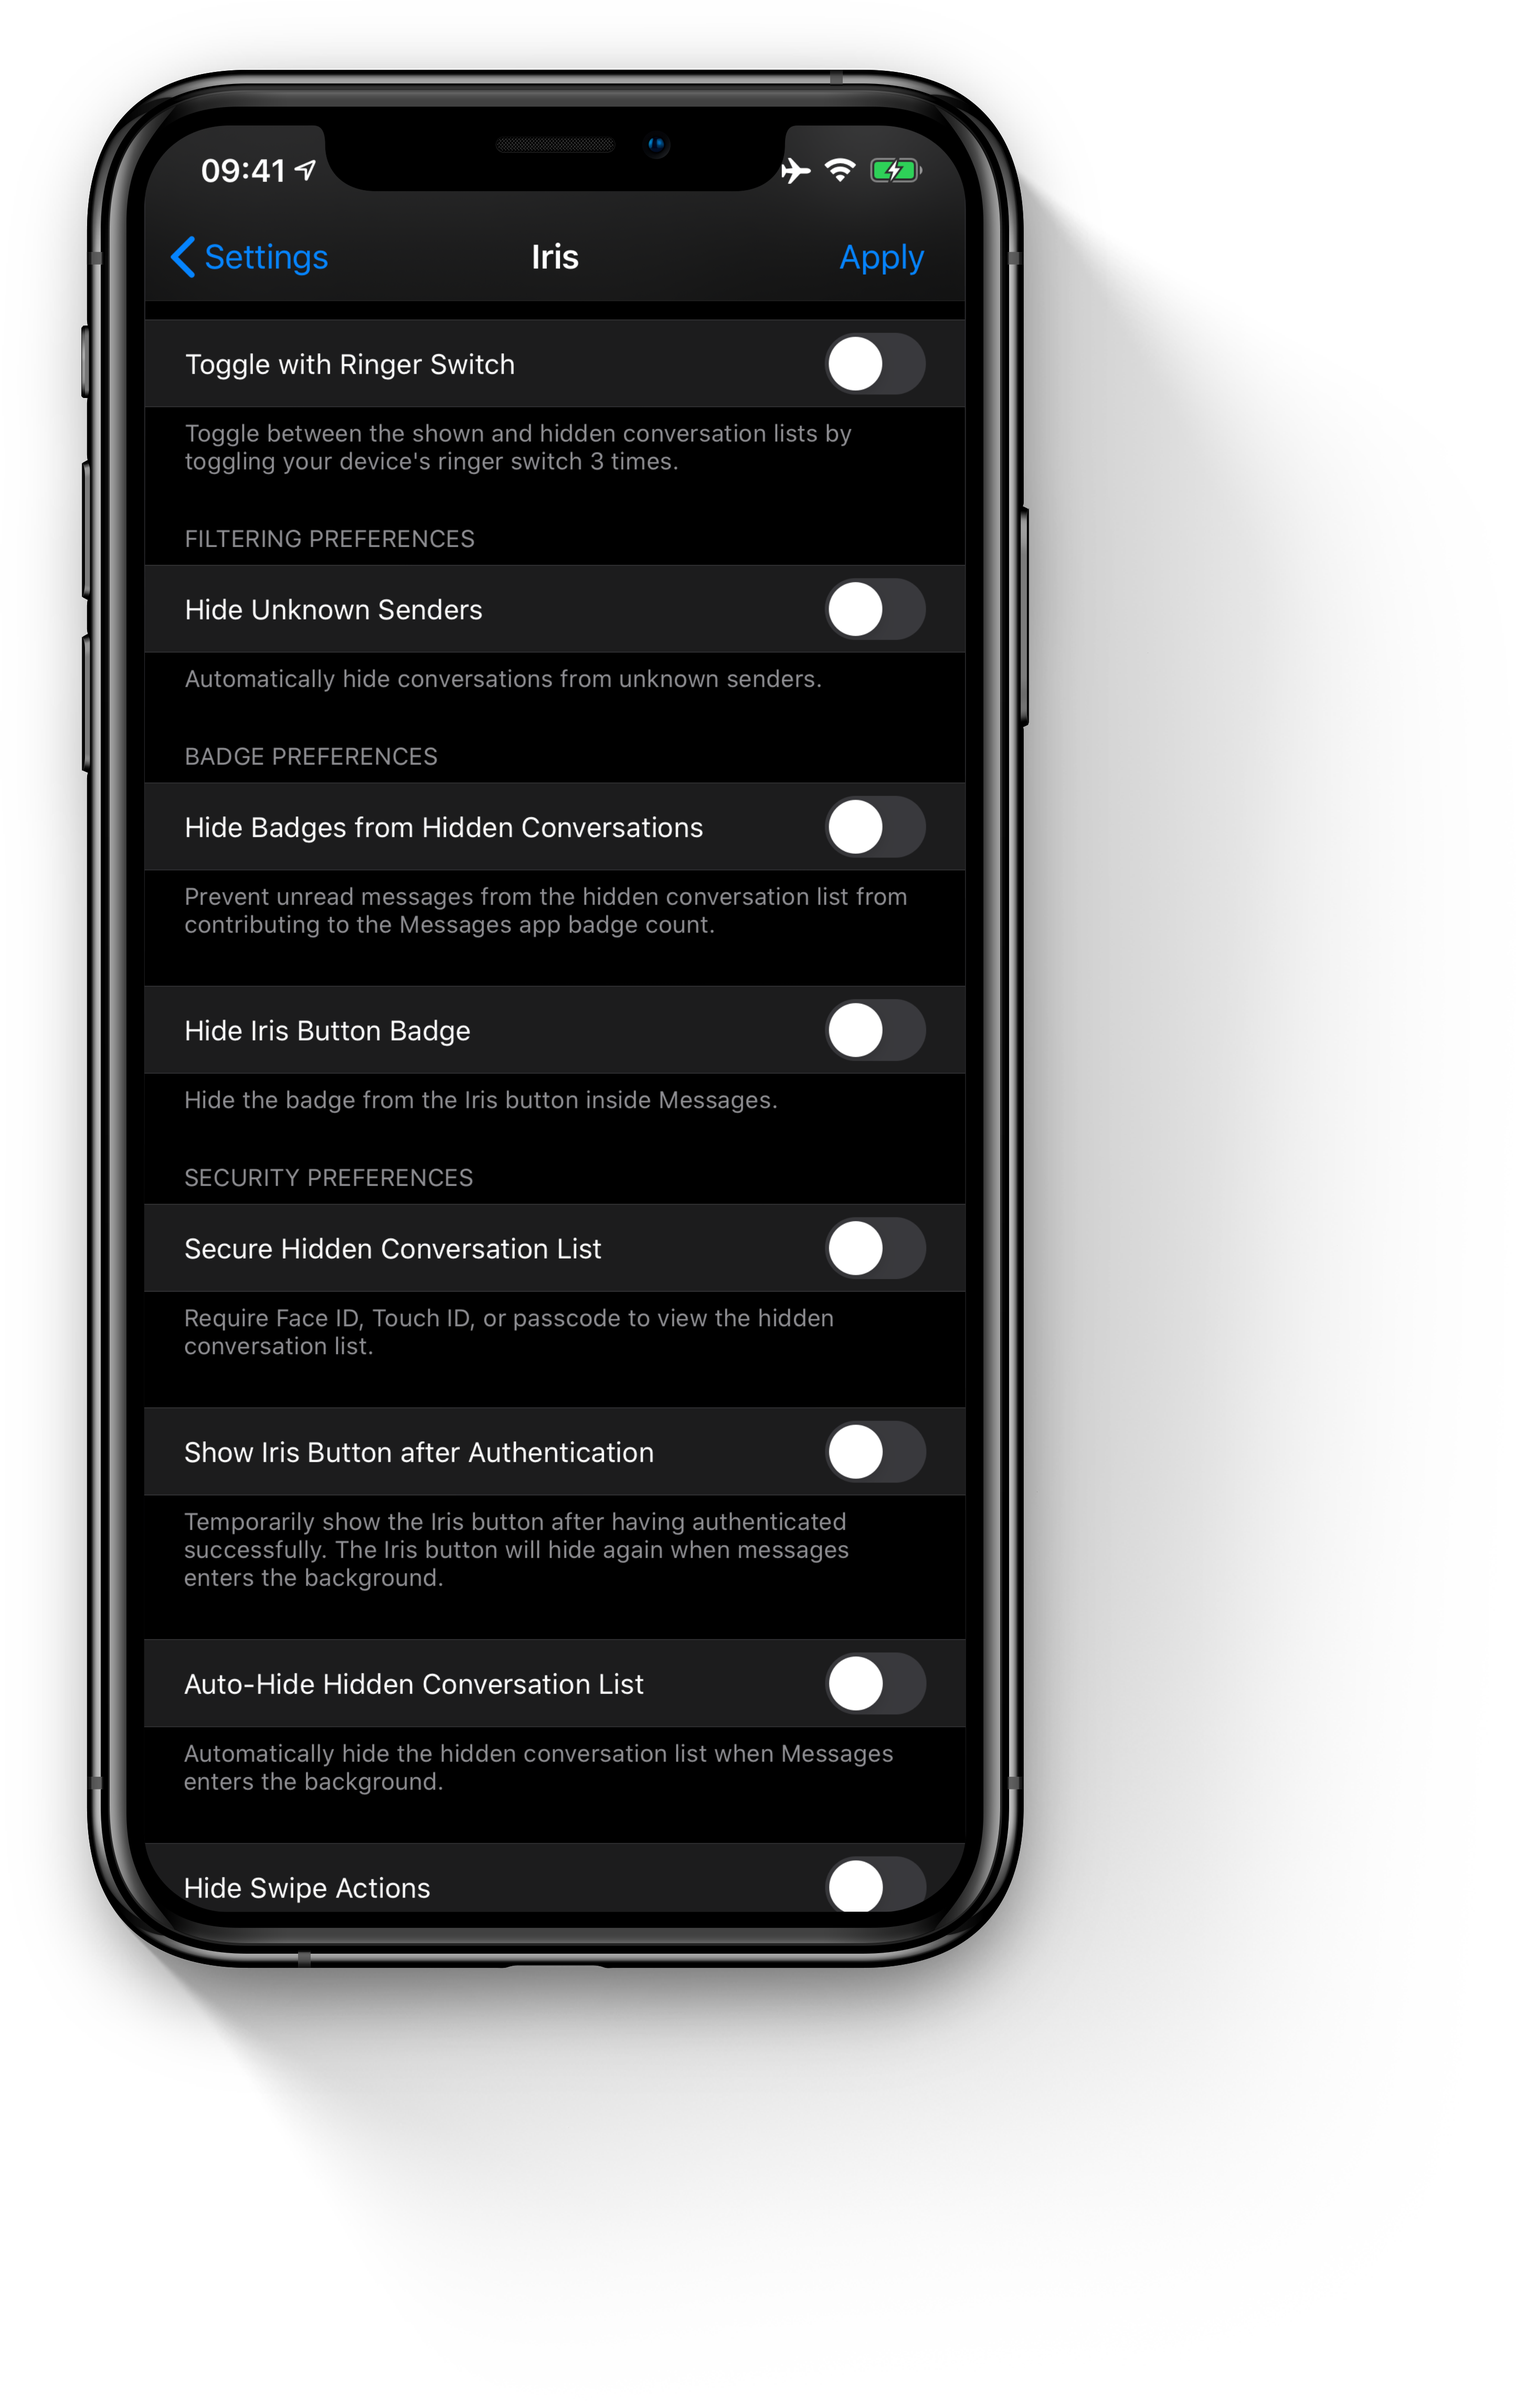
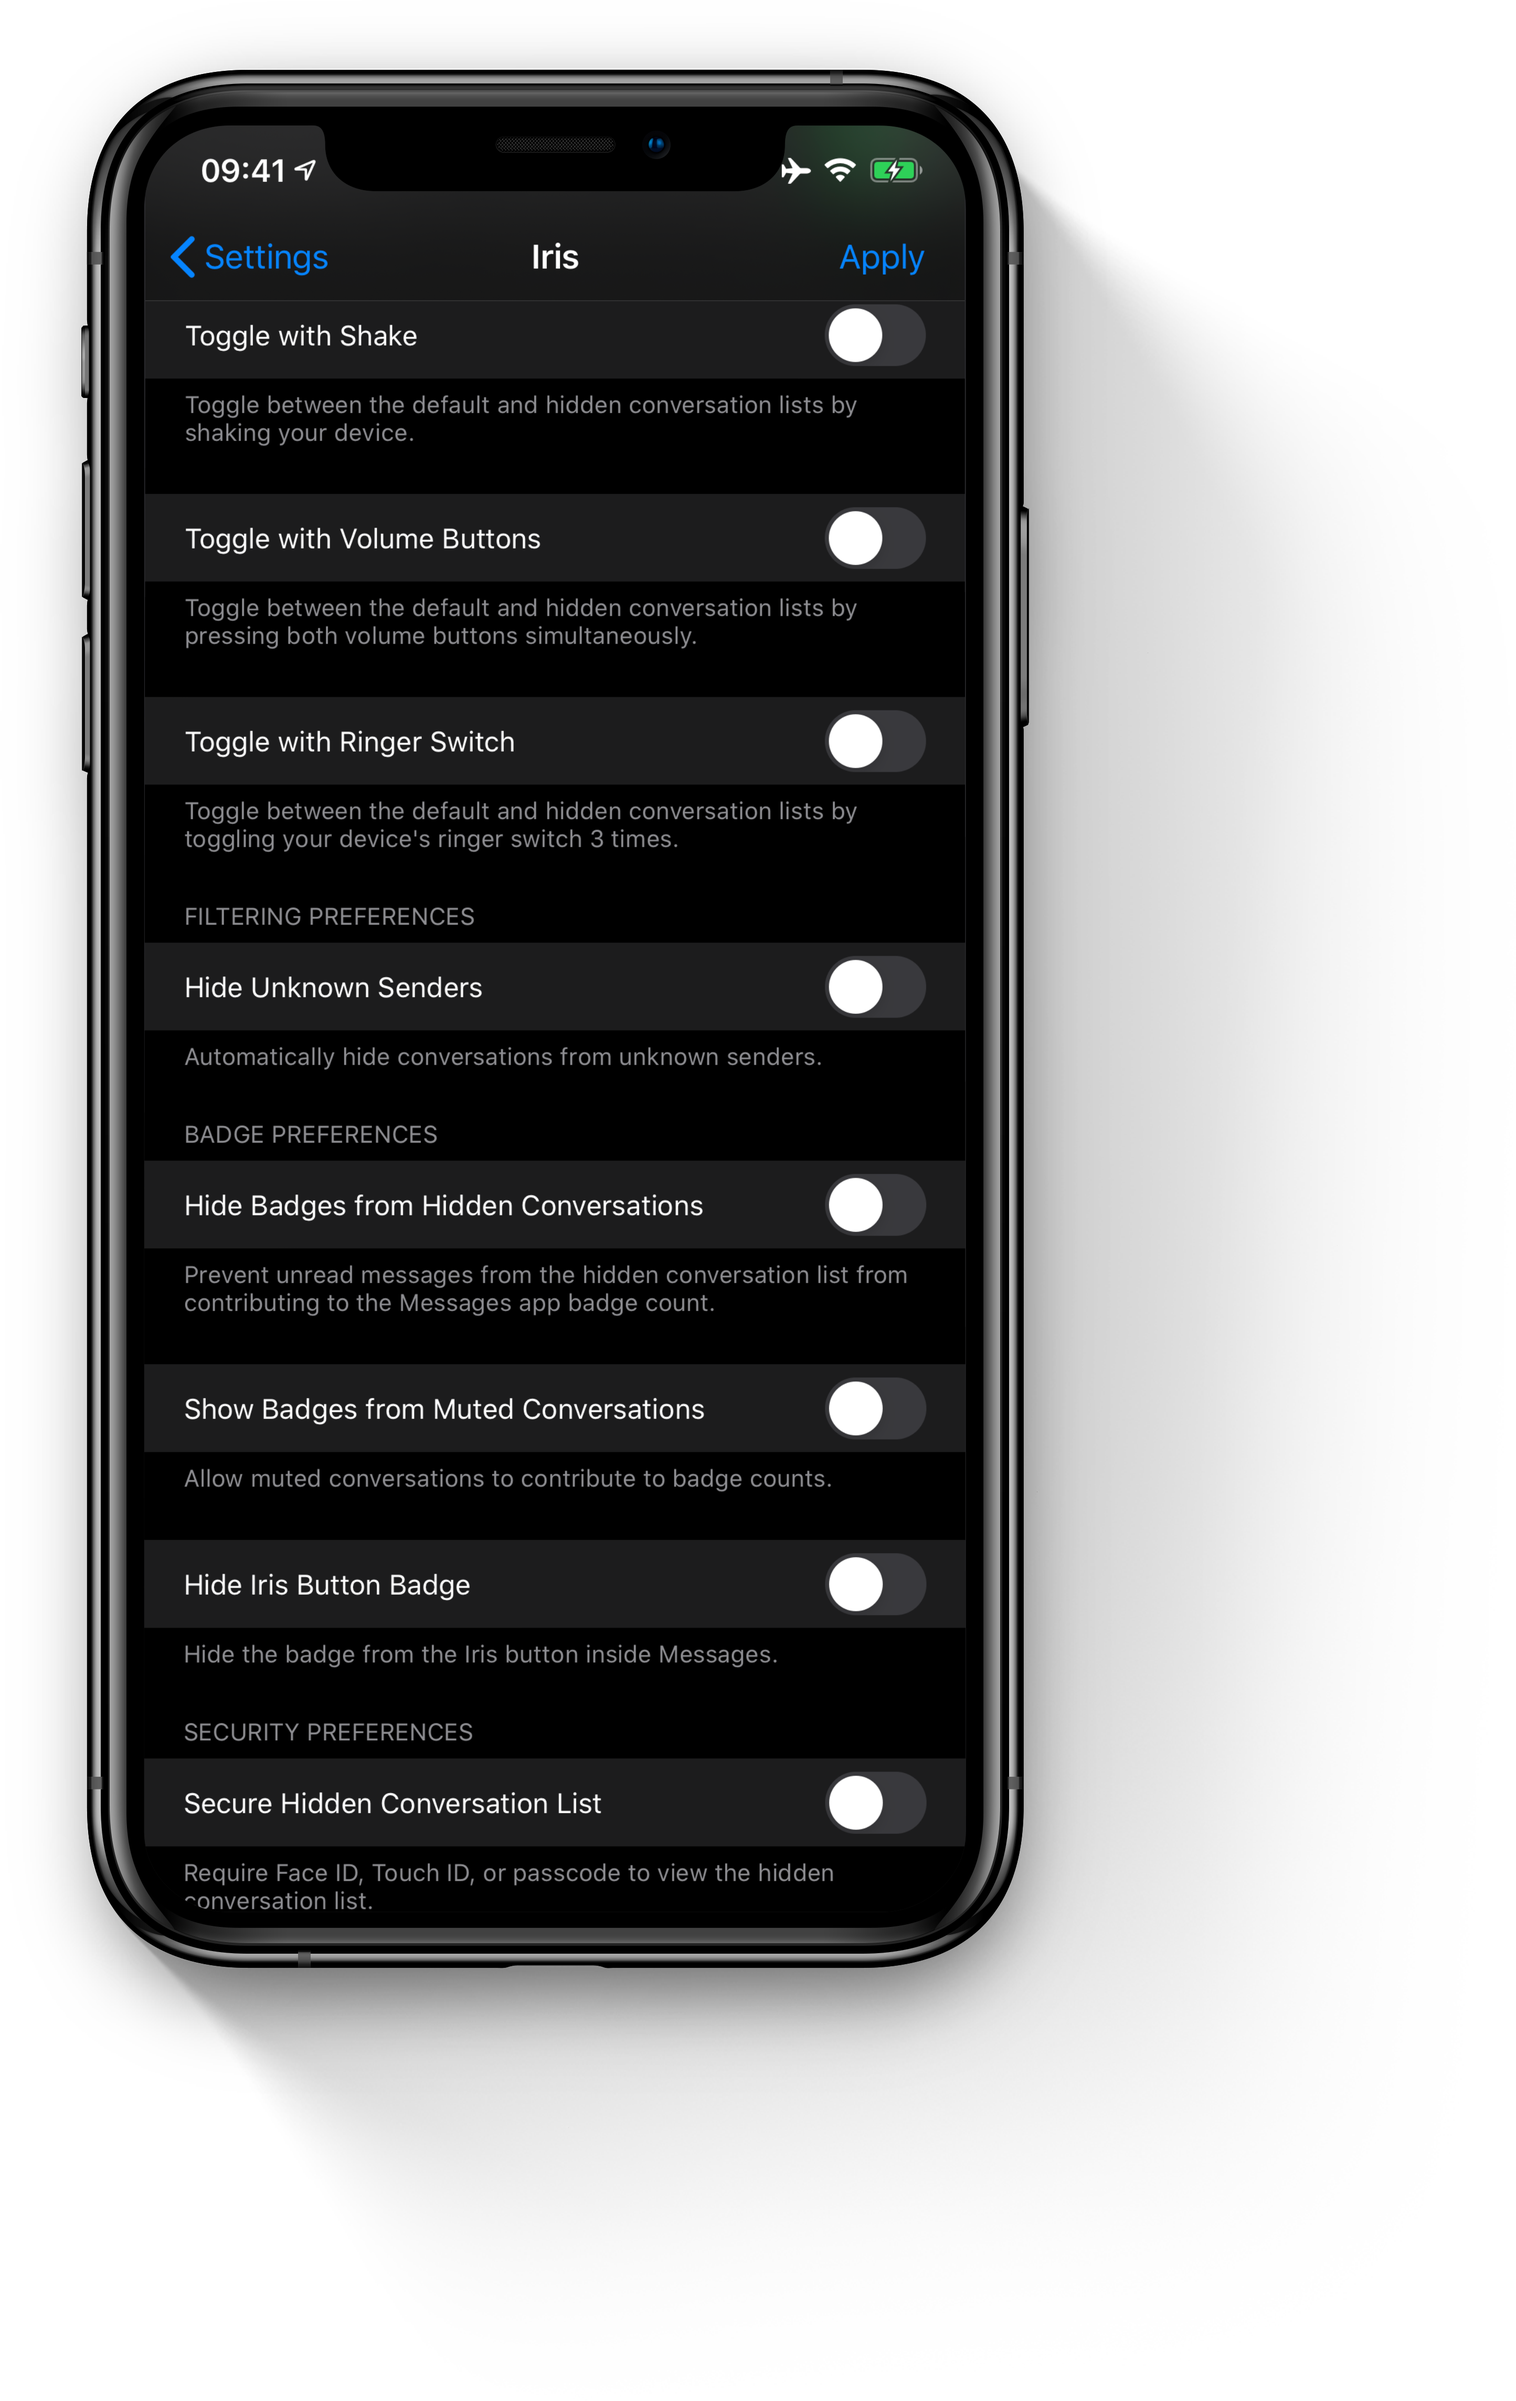
Update Media and README.md

Changed region(s): [[0.0935, 0.1242, 0.6542, 0.8073]]

diff --git a/README.md b/README.md
@@ -1,4 +1,4 @@
-![Banner](https://user-images.githubusercontent.com/27970288/83982217-c8b98000-a91c-11ea-8ca3-3e6609b66309.png)
+![Banner](https://user-images.githubusercontent.com/27970288/86540852-c4728980-beff-11ea-94d3-f3cc5f5d0b5d.png)
 
 # [Iris](https://en.wikipedia.org/wiki/Iris_(mythology))
 > #### *(/ˈaɪrɪs/; Greek: Ίρις Ancient Greek: [îːris])*
@@ -20,6 +20,7 @@ Watch [here](https://youtu.be/OwSOB6Do9Yk).
 * 3D/Haptic Touch on a conversation to tag
 * Secure the hidden conversation list with Face ID, Touch ID, or passcode
 * Switch between different lists with either the Iris button or activation actions
+* View all conversations with unread messages in a separate list
 * Automatically hide conversations from unknown senders
 * Automatically sync all lists to iCloud
 * Quick switch between conversations
@@ -29,6 +30,10 @@ Watch [here](https://youtu.be/OwSOB6Do9Yk).
 
 ### Main Preferences
 * Enabled
+
+### Default List Preferences
+* Default List
+* Open with Default List
 
 ### Activation Preferences
 * Show Iris Button
@@ -41,6 +46,7 @@ Watch [here](https://youtu.be/OwSOB6Do9Yk).
 
 ### Badge Preferences
 * Hide Badges from Hidden Conversations
+* Show Badges from Muted Conversations
 * Hide Iris Button Badge
 
 ### Security Preferences
@@ -49,6 +55,9 @@ Watch [here](https://youtu.be/OwSOB6Do9Yk).
 * Auto-Hide Hidden Conversation List
 * Hide Swipe Actions
 
+### Quick Switch Preferences
+* Enable Quick Switch
+
 ## [Donate](https://paypal.me/jacobcxdev)
 If you would like to donate to me, please donate [via PayPal](https://paypal.me/jacobcxdev) — it really helps!
 
@@ -56,11 +65,11 @@ If you would like to donate to me, please donate [via PayPal](https://paypal.me/
 *Tip: If the screenshots are too large, zoom out by pressing `ctrl + -` / `command + -`. Press `ctrl + 0` / `command + 0` to return to the default zoom level.*
 ![1-Mockup](https://user-images.githubusercontent.com/27970288/83982004-bf2f1880-a91a-11ea-84a5-c8a86f8c65a1.png)
 ![2-Mockup](https://user-images.githubusercontent.com/27970288/83982007-c524f980-a91a-11ea-818f-a6cb6470a69b.png)
-![3-Mockup](https://user-images.githubusercontent.com/27970288/83982009-c7875380-a91a-11ea-8d6e-5ef1bb821d39.png)
+![3-Mockup](https://user-images.githubusercontent.com/27970288/86540817-8aa18300-beff-11ea-91ee-774b7ff841f6.png)
 ![4-Mockup](https://user-images.githubusercontent.com/27970288/83982011-c9511700-a91a-11ea-965f-42c89bd05f6a.png)
-![5-Mockup](https://user-images.githubusercontent.com/27970288/83982014-cb1ada80-a91a-11ea-8447-c057f0ac6d01.png)
+![5-Mockup](https://user-images.githubusercontent.com/27970288/86541082-e967fc00-bf01-11ea-9766-0f519d0c008e.png)
 ![6-Mockup](https://user-images.githubusercontent.com/27970288/83982015-cce49e00-a91a-11ea-9ba6-8a535a937e92.png)
 ![7-Mockup](https://user-images.githubusercontent.com/27970288/83982016-ce15cb00-a91a-11ea-9762-d6f4e4ecb389.png)
-![8-Mockup](https://user-images.githubusercontent.com/27970288/83982017-cf46f800-a91a-11ea-91a4-da125ca5fced.png)
-![9-Mockup](https://user-images.githubusercontent.com/27970288/83982019-d1a95200-a91a-11ea-9cb4-f80abcb3bf55.png)
-![10-Mockup](https://user-images.githubusercontent.com/27970288/83982021-d2da7f00-a91a-11ea-8424-00e82b385252.png)
+![8-Mockup](https://user-images.githubusercontent.com/27970288/86540822-8d03dd00-beff-11ea-91ef-f490cd309dde.png)
+![9-Mockup](https://user-images.githubusercontent.com/27970288/86540837-942aeb00-beff-11ea-882b-b34cc670b123.png)
+![10-Mockup](https://user-images.githubusercontent.com/27970288/86540842-98ef9f00-beff-11ea-9682-95f14cccf74b.png)
